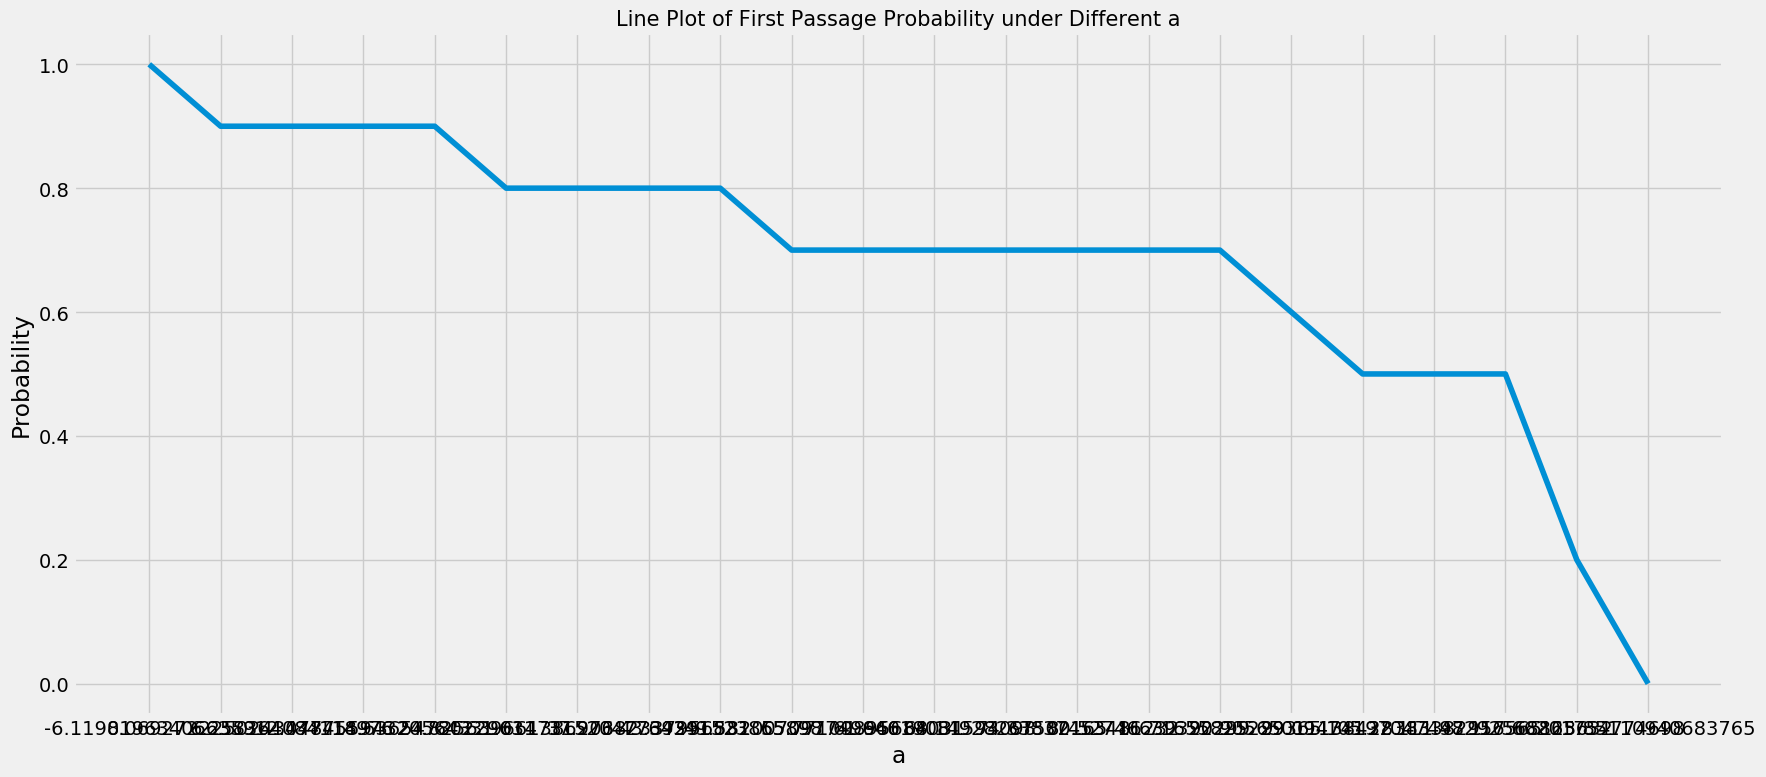
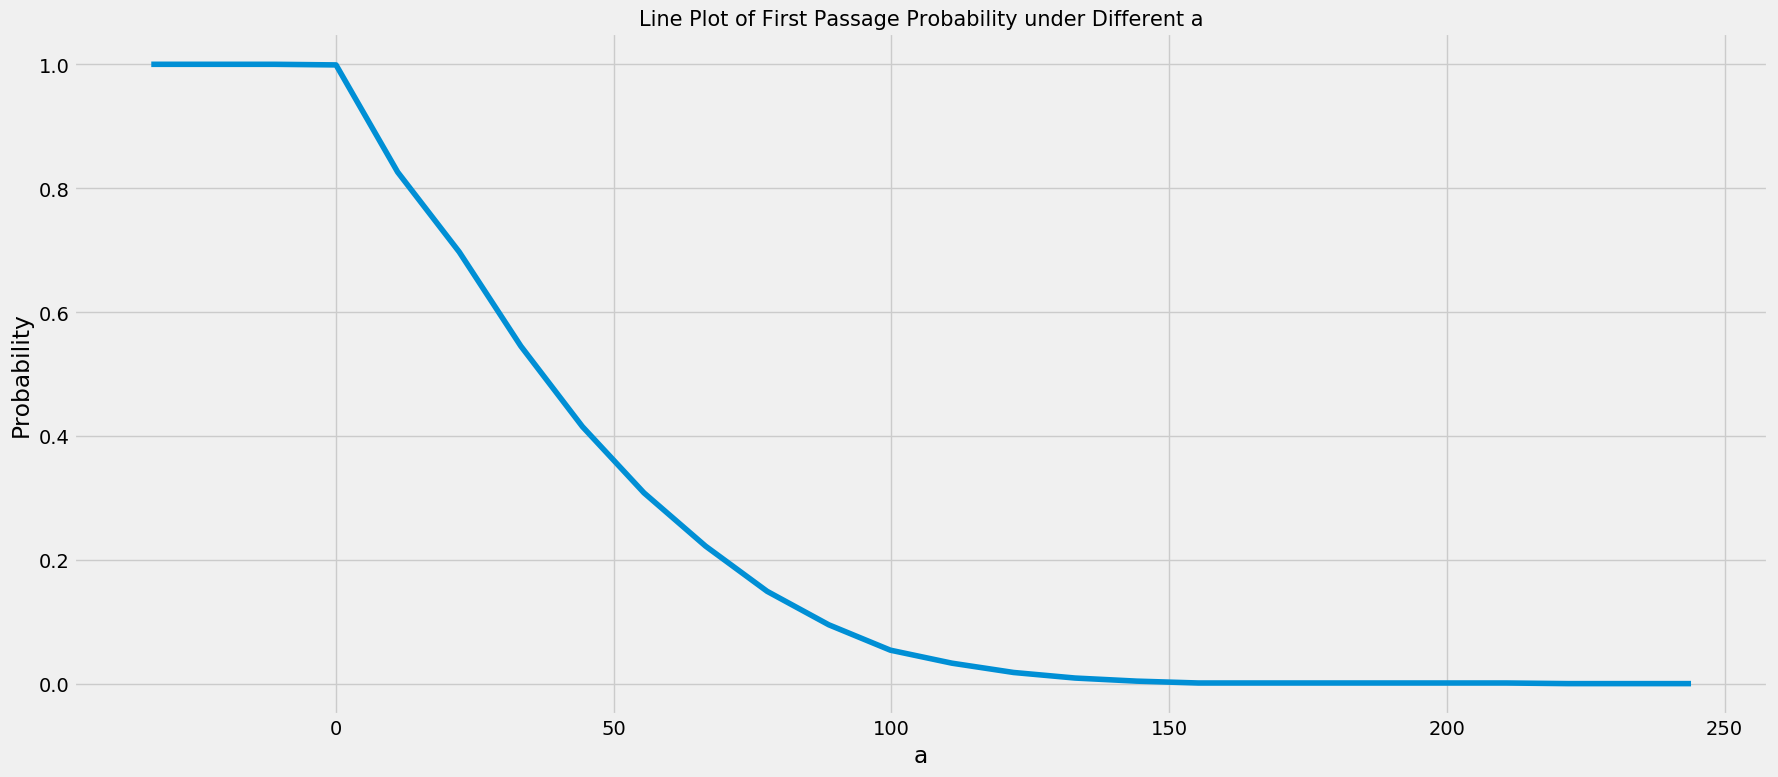
update

diff --git a/src/task.py b/src/task.py
@@ -59,33 +59,56 @@ def do4():
     lbd = 1
     n_sample = 1000
     n_sim = 10
-    func_dist_y = [simulate.select_dist(1), simulate.select_dist_erlang(1),
-                   simulate.select_dist_hyperexpon(1, 0.5, 1, 0.5), simulate.select_dist_pareto(2, 0.5)]
-    for i in range(len(func_dist_y)):
-        _, _, _, mat_s, mat_p, mat_a, mat_m, _ = realize.multi(mu, sigma, lbd, func_dist_y[i], n_sample, n_sim)
+    list_func_dist_y = [simulate.select_dist(1), simulate.select_dist_erlang(1),
+                        simulate.select_dist_hyperexpon(1, 0.5, 1, 0.5), simulate.select_dist_pareto(2, 0.5)]
+    for i in range(len(list_func_dist_y)):
+        _, _, _, mat_s, mat_p, mat_a, mat_m, _ = realize.multi(mu, sigma, lbd, list_func_dist_y[i], n_sample, n_sim)
         vi.line_multi_pa(mat_s, mat_p, mat_a, 'task4-' + str(i))
 
-        
+
+def do5_1(mu, sigma, lbd, beta, n_sample, n_sim):
+    list_a = [1, 10, 1000, 100000]
+    # list_a = list(range(2750, 3250, 50))
+    # list_a = [1]
+    func_dist_y = simulate.select_dist(beta)
+    # Being Simulation
+    list_fpp = simulate.fpp_multi(mu, sigma, lbd, func_dist_y, n_sample, n_sim, list_a)
+    print("    list_a = {} ;".format(list_a))
+    print("    list_fpp = {} ;".format(list_fpp))
+
+
+def do5_2(mu, sigma, lbd, beta, n_sample, n_sim, n_a_raw):
+    func_dist_y = simulate.select_dist(beta)
+    list_a, list_fpp, mat_s, mat_p, mat_a = simulate.fpp_series(
+        mu, sigma, lbd, func_dist_y, n_sample, n_sim, n_a_raw)
+    vi.line_fpp(list_a, list_fpp, 'task5-2')
+    vi.line_multi_pa(mat_s, mat_p, mat_a, 'task5-3')
+
+
+def do5_3(mu, sigma, lbd, n_sample, n_sim, n_a_raw):
+    list_func_dist_y = [simulate.select_dist(1), simulate.select_dist_erlang(1),
+                        simulate.select_dist_hyperexpon(1, 0.5, 1, 0.5), simulate.select_dist_pareto(2, 0.5)]
+    list_label = ['Exp', 'Erland', 'Hyper-Exp', 'Pareto']
+    list_list_a, list_list_fpp = simulate.fpp_series_multi(mu, sigma, lbd, list_func_dist_y, n_sample, n_sim, n_a_raw)
+    vi.line_fpp_multi(list_list_a, list_list_fpp, list_label, 'task5-4')
+
+
 def do5():
-    # Set Parameters
+    # 1,  Set Parameters
     mu = - 1
     sigma = 1
     lbd = 1
     beta = 1  # [beta in distribution of y], mean = 1 / beta
-    func_dist_y = simulate.select_dist(beta)
-    n_sample = 10000
+    n_sample = 100
     n_sim = 10
-    # # Set list of a
-    # list_a = [1, 10, 1000, 100000]
-    # # list_a = list(range(2750, 3250, 50))
-    # # list_a = [1]
-    # # Being Simulation
-    # list_fpp = simulate.fpp_multi(mu, sigma, lbd, func_dist_y, n_sample, n_sim, list_a)
-    # print("    list_a = {} ;".format(list_a))
-    # print("    list_fpp = {} ;".format(list_fpp))
-    #
+    # 2,  Task 5.1: Calculate fpp under different a
+    # do5_1(mu, sigma, lbd, beta, n_sample, n_sim)
+    # 3,  Task 5.2: Plot the fpp as line with exponential distribution
+    # n_a_raw = 20
+    # do5_2(mu, sigma, lbd, beta, n_sample, n_sim, n_a_raw)
+    # 4,  Task 5.3: Plot the fpp as lines with different distributions
     n_a_raw = 20
-    simulate.plot_fpp_multi(mu, sigma, lbd, func_dist_y, n_sample, n_sim, n_a_raw, 'task5-2')
+    do5_3(mu, sigma, lbd, n_sample, n_sim, n_a_raw)
 
 
 def test():

diff --git a/src/visualize.py b/src/visualize.py
@@ -117,17 +117,36 @@ def line_pam(list_s, list_p, list_a, list_m, name_fig, whe_show=False):
     fig.savefig('images/' + name_fig + '.png', bbox_inches='tight')
 
 
-def line_fpp_multi(list_a, list_prob, name_fig, whe_show=False):
+def line_fpp(list_a, list_prob, name_fig, whe_show=False):
     fig = plt.figure(figsize=(18, 8))
     plt.style.use("fivethirtyeight")
     plt.plot(list_a, list_prob)  # , linestyle='--', marker='o'
     plt.xlabel('a')
     plt.ylabel('Probability')
-    plt.xticks(ticks=list_a, labels=list_a)
+    # plt.xticks(ticks=list_a, labels=list_a)
     # plt.annotate(
     #     'THE DAY I REALIZED\nI COULD COOK BACON\nWHENEVER I WANTED',
     #     xy=(70, 1), arrowprops=dict(arrowstyle='->'), xytext=(15, -10))
     plt.title('Line Plot of First Passage Probability under Different a', fontsize=15)
+    plt.tight_layout()
+    if whe_show:  # Whether to show the plot
+        plt.show()
+    fig.savefig('images/' + name_fig + '.png', bbox_inches='tight')
+
+
+def line_fpp_multi(list_list_a, list_list_prob, list_label, name_fig, whe_show=False):
+    fig = plt.figure(figsize=(18, 8))
+    plt.style.use("fivethirtyeight")
+    for i in range(len(list_list_a)):
+        plt.plot(list_list_a[i], list_list_prob[i], label=list_label[i])  # , linestyle='--', marker='o'
+    plt.xlabel('a')
+    plt.ylabel('Probability')
+    # plt.xticks(ticks=list_a, labels=list_a)
+    # plt.annotate(
+    #     'THE DAY I REALIZED\nI COULD COOK BACON\nWHENEVER I WANTED',
+    #     xy=(70, 1), arrowprops=dict(arrowstyle='->'), xytext=(15, -10))
+    plt.title('Line Plot of First Passage Probability under Different a', fontsize=15)
+    plt.legend()
     plt.tight_layout()
     if whe_show:  # Whether to show the plot
         plt.show()

diff --git a/src/simulate.py b/src/simulate.py
@@ -74,21 +74,28 @@ def fpp_multi(mu, sigma, lbd, func_dist_y, n_sample, n_sim, list_a):
     return list_fpp
 
 
-def plot_fpp_multi(mu, sigma, lbd, func_dist_y, n_sample, n_sim, n_a_raw, name_fig):
+def fpp_series(mu, sigma, lbd, func_dist_y, n_sample, n_sim, n_a_raw):
     print("--------------------------------------------------------------------------------\n"
           "Calculate First Passage Probabilities of Different a")
-    _, _, list_m_result, _, _, _, _, _ = realize.multi(mu, sigma, lbd, func_dist_y, n_sample, n_sim)
+    _, _, list_m_result, mat_s, mat_p, mat_a, _, _ = realize.multi(mu, sigma, lbd, func_dist_y, n_sample, n_sim)
     step = (max(list_m_result) - min(list_m_result)) / n_a_raw
-    list_a = [0] * (n_a_raw + 2)
-    for i in range(n_a_raw + 2):
-        list_a[i] = min(list_m_result) + step * (i - 1)
+    list_a = [0] * (n_a_raw + 6)
+    for i in range(n_a_raw + 6):
+        list_a[i] = min(list_m_result) + step * (i - 3)
     n_a = len(list_a)
     list_fpp = [0] * n_a
     for j in range(n_a):
         list_fpp[j] = sum([i > list_a[j] for i in list_m_result]) / len(list_m_result)
-    vi.line_fpp_multi(list_a, list_fpp, name_fig)
-    return list_fpp
+    return list_a, list_fpp, mat_s, mat_p, mat_a
 
 
+def fpp_series_multi(mu, sigma, lbd, list_func_dist_y, n_sample, n_sim, n_a_raw):
+    n_dist = len(list_func_dist_y)
+    list_list_a = [None] * n_dist
+    list_list_fpp = [None] * n_dist
+    for i in range(n_dist):
+        list_list_a[i], list_list_fpp[i], _, _, _ = fpp_series(
+            mu, sigma, lbd, list_func_dist_y[i], n_sample, n_sim, n_a_raw)
+    return list_list_a, list_list_fpp
 
 

diff --git a/src/realize.py b/src/realize.py
@@ -88,7 +88,7 @@ def multi(mu, sigma, lbd, func_dist_y, n_sample, n_sim, a=False):
         mat_a[i, :] = df.a
         mat_m[i, :] = df.m
     time_elapse = time.time() - time_start
-    print("Time elapsed = {} ;".format(time_elapse))
+    print("    Time elapsed = {} ;".format(time_elapse))
     # Calculate first passage probability given a of sim.multi
     if not a:
         fpp = None
